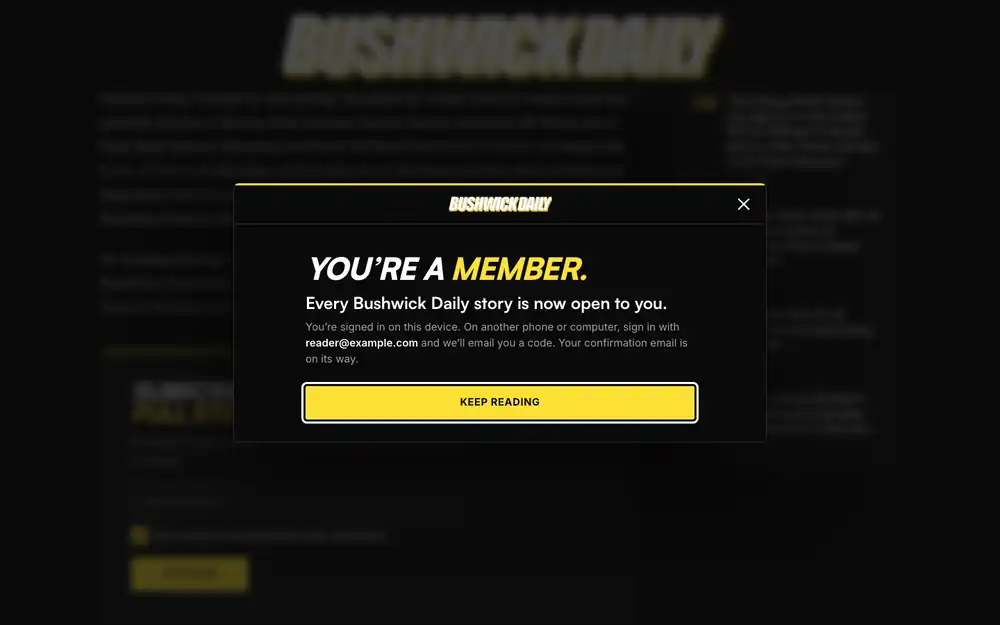
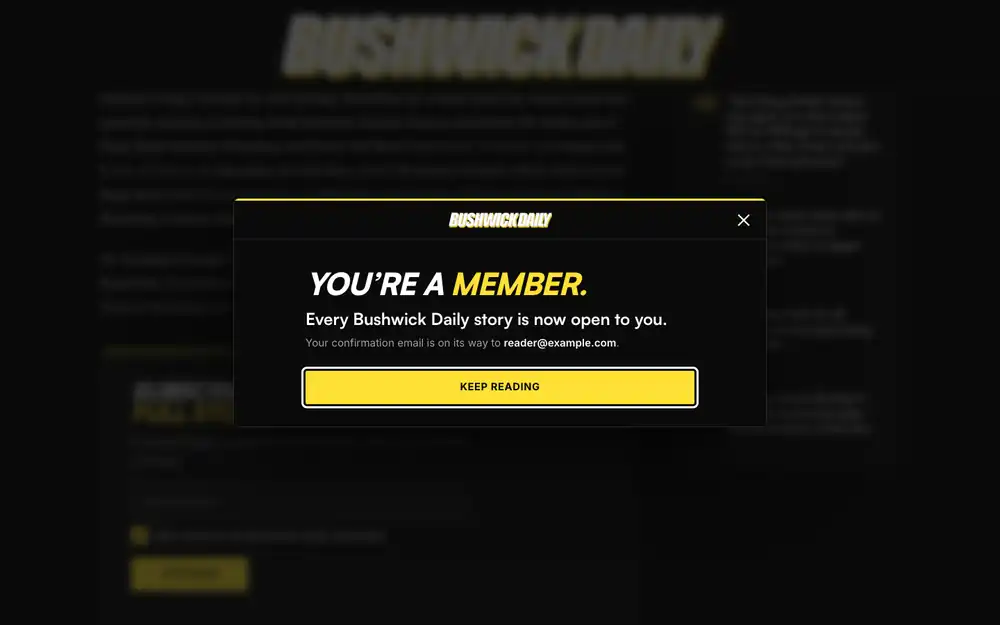
Success screen auto-closes again

Changed region(s): [[0.279, 0.3952, 0.713, 0.6992], [0.248, 0.2736, 0.775, 0.3648]]

diff --git a/design/competitor-comparison.html b/design/competitor-comparison.html
@@ -2,4 +2,4 @@
 <style>:root{--bg:#0a0a0a;--fg:#ededed;--muted:#a3a3a3;--y:#ffe135;--line:#2a2a2a}body{margin:0;background:var(--bg);color:var(--fg);font:16px/1.55 Inter,-apple-system,Helvetica,Arial,sans-serif}main{max-width:1240px;margin:0 auto;padding:24px 16px 64px}h1{font-size:28px;margin:0 0 6px}.lede{color:var(--muted);margin:0 0 28px}.stage{border-top:1px solid var(--line);padding:22px 0}h2{font-size:20px;margin:0 0 14px;color:var(--y)}h3{font-size:13px;letter-spacing:.06em;text-transform:uppercase;color:var(--muted);margin:0 0 10px}.cols{display:grid;grid-template-columns:1fr 1fr 1.1fr;gap:20px}.col figure{margin:0 0 14px}.col img{width:100%;max-width:300px;border:1px solid var(--line);border-radius:6px;display:block}figcaption,.note{font-size:14px;color:var(--muted);margin:6px 0 0;max-width:300px}.bd p{background:#151515;border-left:3px solid var(--y);padding:12px 14px;margin:0;border-radius:4px}.bd b,figcaption b,.note b{color:var(--fg)}a{color:var(--y)}@media(max-width:860px){.cols{grid-template-columns:1fr}.col img{max-width:260px}}</style></head>
 <body><main><h1>Becoming a member: Hell Gate, 404 Media, and what Bushwick Daily will do</h1>
 <p class=lede>Phone screenshots, 2026-10-13. Hell Gate signed in as a free member (owner’s account); 404 Media with an email that has no account; anonymous captures for everything else. Each caption quotes the screen. Full evidence: research reports 27 and 28 in the repo. The Bushwick Daily column shows the approved design mockups (iPhone 13). They are being built into the site now, for review on a private preview link.</p>
-<section class=stage><h2>1. The gate in the article</h2><div class=cols><div class=col><h3>Hell Gate</h3><figure><a href="img/compare/hg-1-gate.webp"><img loading="lazy" src="img/compare/hg-1-gate.webp" alt=""></a><figcaption>“SUBSCRIBE TO READ THE FULL STORY. Become a paid subscriber to Hell Gate to access all of our posts.” [Subscribe]</figcaption></figure><figure><a href="img/compare/hg-1-gate-outpost.webp"><img loading="lazy" src="img/compare/hg-1-gate-outpost.webp" alt=""></a><figcaption>A separate slide-up covers 71% of the phone screen at the gate, hiding the gate’s own button.</figcaption></figure></div><div class=col><h3>404 Media</h3><figure><a href="img/compare/404-1-gate.webp"><img loading="lazy" src="img/compare/404-1-gate.webp" alt=""></a><figcaption>“This post is for paid members only. Become a paid member for unlimited ad-free access…” [SUBSCRIBE] · “Already have an account? Sign in”. A fixed ad covers the bottom 17%.</figcaption></figure></div><div class='col bd'><h3>Bushwick Daily (proposed)</h3><figure><a href="img/compare/bd-1-gate.webp"><img loading="lazy" src="img/compare/bd-1-gate.webp" alt=""></a><figcaption>On landing: the free opening, then one card: email, newsletter box, Continue. Nothing covers the article.</figcaption></figure><p><b>Keep:</b> the article’s free opening, then one clear box. <b>Fix:</b> one gate only (no slide-up competing with it, no ad over it). Our box asks for the email (plus the newsletter box) and Continue.</p></div></div></section><section class=stage><h2>2. The first tap</h2><div class=cols><div class=col><h3>Hell Gate</h3><figure><a href="img/compare/hg-2-signin-newtab.webp"><img loading="lazy" src="img/compare/hg-2-signin-newtab.webp" alt=""></a><figcaption>Subscribe opens a <b>new tab</b> on a full-screen “Sign in” sheet. Plans need another tap (“Sign up”).</figcaption></figure></div><div class=col><h3>404 Media</h3><figure><a href="img/compare/404-2-membership-page.webp"><img loading="lazy" src="img/compare/404-2-membership-page.webp" alt=""></a><figcaption>SUBSCRIBE <b>leaves the article</b> for a /membership/ page.</figcaption></figure><figure><a href="img/compare/404-2-signin-sheet.webp"><img loading="lazy" src="img/compare/404-2-signin-sheet.webp" alt=""></a><figcaption>“Sign in” opens a full-screen sheet over the article.</figcaption></figure></div><div class='col bd'><h3>Bushwick Daily (proposed)</h3><figure><a href="img/compare/bd-2-code-sheet.webp"><img loading="lazy" src="img/compare/bd-2-code-sheet.webp" alt=""></a><figcaption>After Continue, a member gets the code step, full screen, same tab.</figcaption></figure><figure><a href="img/compare/bd-2-plans-sheet.webp"><img loading="lazy" src="img/compare/bd-2-plans-sheet.webp" alt=""></a><figcaption>Everyone else goes straight to the plans, with Monthly selected.</figcaption></figure><p><b>Keep:</b> a full-screen sheet on the phone. <b>Fix:</b> same tab, same article; the sheet opens directly on the right step (code for members, plans for everyone else).</p></div></div></section><section class=stage><h2>3. Telling a signed-in reader where they stand</h2><div class=cols><div class=col><h3>Hell Gate</h3><figure><a href="img/compare/hg-3-account-free.webp"><img loading="lazy" src="img/compare/hg-3-account-free.webp" alt=""></a><figcaption>“You currently have a free membership, upgrade to a paid subscription for full access.” [View plans]. The owner read “free membership” as “I get some free articles.”</figcaption></figure></div><div class=col><h3>404 Media</h3><figure><a href="img/compare/404-3-check-email-no-account.webp"><img loading="lazy" src="img/compare/404-3-check-email-no-account.webp" alt=""></a><figcaption>For an email with no account: “Now check your email! If you have an account, an email has been sent…”, and no email ever comes.</figcaption></figure></div><div class='col bd'><h3>Bushwick Daily (proposed)</h3><figure><a href="img/compare/bd-3-signed-in-card.webp"><img loading="lazy" src="img/compare/bd-3-signed-in-card.webp" alt=""></a><figcaption>Signed in, no membership: the card says so plainly, with See plans.</figcaption></figure><figure><a href="img/compare/bd-3-signed-in-sheet.webp"><img loading="lazy" src="img/compare/bd-3-signed-in-sheet.webp" alt=""></a><figcaption>See plans opens the sheet with the same message.</figcaption></figure><p><b>Fix both:</b> the sheet says <b>“You’re out of free articles.”</b> “You’re signed in as {email}. A membership unlocks this story and every other one: $6.99 a month or $70 a year.” A new email goes straight to the plans; we never say “check your email” when nothing is coming.</p></div></div></section><section class=stage><h2>4. Choosing a plan</h2><div class=cols><div class=col><h3>Hell Gate</h3><figure><a href="img/compare/hg-4-plans.webp"><img loading="lazy" src="img/compare/hg-4-plans.webp" alt=""></a><figcaption>Full screen: Monthly / “Yearly (save 17%)” switch, three tier cards with benefit lists, one [Choose] each.</figcaption></figure></div><div class=col><h3>404 Media</h3><figure><a href="img/compare/404-4-plans-sheet.webp"><img loading="lazy" src="img/compare/404-4-plans-sheet.webp" alt=""></a><figcaption>Full-screen sheet (from Sign in → Sign up): Name, Email, Monthly / Yearly switch, Free / Supporter / Superfan cards.</figcaption></figure></div><div class='col bd'><h3>Bushwick Daily (proposed)</h3><figure><a href="img/compare/bd-4-plans-yearly.webp"><img loading="lazy" src="img/compare/bd-4-plans-yearly.webp" alt=""></a><figcaption>Shown after the reader taps Yearly (the sheet always opens on Monthly). The chosen option has a yellow outline, so Continue, pinned at the bottom, is the only yellow button. “Save $13.88”, what it includes.</figcaption></figure><p><b>Keep:</b> full screen, the Monthly/Yearly switch, a short list of what you get, one button. <b>Fix:</b> one plan (no tier maze), savings as money (“Yearly saves $13.88”), the price matches the headline. Monthly comes selected (both sites preselect Yearly), and the selected option never looks like the button.</p></div></div></section><section class=stage><h2>5. Paying</h2><div class=cols><div class=col><h3>Hell Gate</h3><figure><a href="img/compare/hg-5-stripe-checkout.webp"><img loading="lazy" src="img/compare/hg-5-stripe-checkout.webp" alt=""></a><figcaption>“Choose” <b>leaves Hell Gate</b> for Stripe’s hosted checkout: Apple Pay, email, card form, Subscribe.</figcaption></figure></div><div class=col><h3>404 Media</h3><p class=note>“SUBSCRIBE NOW” goes straight to Stripe’s hosted checkout with no email step. Stripe’s saved-card feature pre-filled a saved card, so one tap would have charged. (Screenshot withheld: it shows a payment card.)</p></div><div class='col bd'><h3>Bushwick Daily (proposed)</h3><figure><a href="img/compare/bd-5-payment.webp"><img loading="lazy" src="img/compare/bd-5-payment.webp" alt=""></a><figcaption>Payment inside the sheet: the price and the reader’s address at the top, then the consent box with the required disclosure, all of it on the first iPhone 13 screen. Apple Pay is 76 px of scrolling below it (it was 171), or the card form.</figcaption></figure><figure><a href="img/compare/bd-5-success.webp"><img loading="lazy" src="img/compare/bd-5-success.webp" alt=""></a><figcaption>“You’re a member. Every Bushwick Daily story is now open to you.” One payment covers the whole site; the reader stays signed in on that device (180 days) and signs in once with an emailed code on any other device. Keep reading closes the sheet; the article unlocks where they were.</figcaption></figure><p><b>Fix:</b> the reader never leaves the article. Payment happens inside the sheet, in this order: price and address, the consent box with the legal disclosure, the black Apple Pay button, “Pay with card”, Subscribe. On success the sheet closes and the story unlocks where they were. One payment opens every story on the site, not just this one.</p></div></div></section><section class=stage><h2>6. Getting out</h2><div class=cols><div class=col><h3>Hell Gate</h3><p class=note>Phone: only the X closes it. Escape does nothing on the phone, and the phone’s Back button never closes the sheet (it does nothing in the new tab, or leaves the article). Desktop: Escape works.</p></div><div class=col><h3>404 Media</h3><p class=note>Same as Hell Gate (same Ghost Portal 2.72.3). Back from the Sign in sheet <b>left the article</b>.</p></div><div class='col bd'><h3>Bushwick Daily (proposed)</h3><p><b>Fix:</b> X, Escape (phone and desktop) and the phone’s Back button all close the sheet and return to the same spot in the article. The page behind can’t scroll while the sheet is open (both sites do this; we keep it).</p></div></div></section></main></body></html>
+<section class=stage><h2>1. The gate in the article</h2><div class=cols><div class=col><h3>Hell Gate</h3><figure><a href="img/compare/hg-1-gate.webp"><img loading="lazy" src="img/compare/hg-1-gate.webp" alt=""></a><figcaption>“SUBSCRIBE TO READ THE FULL STORY. Become a paid subscriber to Hell Gate to access all of our posts.” [Subscribe]</figcaption></figure><figure><a href="img/compare/hg-1-gate-outpost.webp"><img loading="lazy" src="img/compare/hg-1-gate-outpost.webp" alt=""></a><figcaption>A separate slide-up covers 71% of the phone screen at the gate, hiding the gate’s own button.</figcaption></figure></div><div class=col><h3>404 Media</h3><figure><a href="img/compare/404-1-gate.webp"><img loading="lazy" src="img/compare/404-1-gate.webp" alt=""></a><figcaption>“This post is for paid members only. Become a paid member for unlimited ad-free access…” [SUBSCRIBE] · “Already have an account? Sign in”. A fixed ad covers the bottom 17%.</figcaption></figure></div><div class='col bd'><h3>Bushwick Daily (proposed)</h3><figure><a href="img/compare/bd-1-gate.webp"><img loading="lazy" src="img/compare/bd-1-gate.webp" alt=""></a><figcaption>On landing: the free opening, then one card: email, newsletter box, Continue. Nothing covers the article.</figcaption></figure><p><b>Keep:</b> the article’s free opening, then one clear box. <b>Fix:</b> one gate only (no slide-up competing with it, no ad over it). Our box asks for the email (plus the newsletter box) and Continue.</p></div></div></section><section class=stage><h2>2. The first tap</h2><div class=cols><div class=col><h3>Hell Gate</h3><figure><a href="img/compare/hg-2-signin-newtab.webp"><img loading="lazy" src="img/compare/hg-2-signin-newtab.webp" alt=""></a><figcaption>Subscribe opens a <b>new tab</b> on a full-screen “Sign in” sheet. Plans need another tap (“Sign up”).</figcaption></figure></div><div class=col><h3>404 Media</h3><figure><a href="img/compare/404-2-membership-page.webp"><img loading="lazy" src="img/compare/404-2-membership-page.webp" alt=""></a><figcaption>SUBSCRIBE <b>leaves the article</b> for a /membership/ page.</figcaption></figure><figure><a href="img/compare/404-2-signin-sheet.webp"><img loading="lazy" src="img/compare/404-2-signin-sheet.webp" alt=""></a><figcaption>“Sign in” opens a full-screen sheet over the article.</figcaption></figure></div><div class='col bd'><h3>Bushwick Daily (proposed)</h3><figure><a href="img/compare/bd-2-code-sheet.webp"><img loading="lazy" src="img/compare/bd-2-code-sheet.webp" alt=""></a><figcaption>After Continue, a member gets the code step, full screen, same tab.</figcaption></figure><figure><a href="img/compare/bd-2-plans-sheet.webp"><img loading="lazy" src="img/compare/bd-2-plans-sheet.webp" alt=""></a><figcaption>Everyone else goes straight to the plans, with Monthly selected.</figcaption></figure><p><b>Keep:</b> a full-screen sheet on the phone. <b>Fix:</b> same tab, same article; the sheet opens directly on the right step (code for members, plans for everyone else).</p></div></div></section><section class=stage><h2>3. Telling a signed-in reader where they stand</h2><div class=cols><div class=col><h3>Hell Gate</h3><figure><a href="img/compare/hg-3-account-free.webp"><img loading="lazy" src="img/compare/hg-3-account-free.webp" alt=""></a><figcaption>“You currently have a free membership, upgrade to a paid subscription for full access.” [View plans]. The owner read “free membership” as “I get some free articles.”</figcaption></figure></div><div class=col><h3>404 Media</h3><figure><a href="img/compare/404-3-check-email-no-account.webp"><img loading="lazy" src="img/compare/404-3-check-email-no-account.webp" alt=""></a><figcaption>For an email with no account: “Now check your email! If you have an account, an email has been sent…”, and no email ever comes.</figcaption></figure></div><div class='col bd'><h3>Bushwick Daily (proposed)</h3><figure><a href="img/compare/bd-3-signed-in-card.webp"><img loading="lazy" src="img/compare/bd-3-signed-in-card.webp" alt=""></a><figcaption>Signed in, no membership: the card says so plainly, with See plans.</figcaption></figure><figure><a href="img/compare/bd-3-signed-in-sheet.webp"><img loading="lazy" src="img/compare/bd-3-signed-in-sheet.webp" alt=""></a><figcaption>See plans opens the sheet with the same message.</figcaption></figure><p><b>Fix both:</b> the sheet says <b>“You’re out of free articles.”</b> “You’re signed in as {email}. A membership unlocks this story and every other one: $6.99 a month or $70 a year.” A new email goes straight to the plans; we never say “check your email” when nothing is coming.</p></div></div></section><section class=stage><h2>4. Choosing a plan</h2><div class=cols><div class=col><h3>Hell Gate</h3><figure><a href="img/compare/hg-4-plans.webp"><img loading="lazy" src="img/compare/hg-4-plans.webp" alt=""></a><figcaption>Full screen: Monthly / “Yearly (save 17%)” switch, three tier cards with benefit lists, one [Choose] each.</figcaption></figure></div><div class=col><h3>404 Media</h3><figure><a href="img/compare/404-4-plans-sheet.webp"><img loading="lazy" src="img/compare/404-4-plans-sheet.webp" alt=""></a><figcaption>Full-screen sheet (from Sign in → Sign up): Name, Email, Monthly / Yearly switch, Free / Supporter / Superfan cards.</figcaption></figure></div><div class='col bd'><h3>Bushwick Daily (proposed)</h3><figure><a href="img/compare/bd-4-plans-yearly.webp"><img loading="lazy" src="img/compare/bd-4-plans-yearly.webp" alt=""></a><figcaption>Shown after the reader taps Yearly (the sheet always opens on Monthly). The chosen option has a yellow outline, so Continue, pinned at the bottom, is the only yellow button. “Save $13.88”, what it includes.</figcaption></figure><p><b>Keep:</b> full screen, the Monthly/Yearly switch, a short list of what you get, one button. <b>Fix:</b> one plan (no tier maze), savings as money (“Yearly saves $13.88”), the price matches the headline. Monthly comes selected (both sites preselect Yearly), and the selected option never looks like the button.</p></div></div></section><section class=stage><h2>5. Paying</h2><div class=cols><div class=col><h3>Hell Gate</h3><figure><a href="img/compare/hg-5-stripe-checkout.webp"><img loading="lazy" src="img/compare/hg-5-stripe-checkout.webp" alt=""></a><figcaption>“Choose” <b>leaves Hell Gate</b> for Stripe’s hosted checkout: Apple Pay, email, card form, Subscribe.</figcaption></figure></div><div class=col><h3>404 Media</h3><p class=note>“SUBSCRIBE NOW” goes straight to Stripe’s hosted checkout with no email step. Stripe’s saved-card feature pre-filled a saved card, so one tap would have charged. (Screenshot withheld: it shows a payment card.)</p></div><div class='col bd'><h3>Bushwick Daily (proposed)</h3><figure><a href="img/compare/bd-5-payment.webp"><img loading="lazy" src="img/compare/bd-5-payment.webp" alt=""></a><figcaption>Payment inside the sheet: the price and the reader’s address at the top, then the consent box with the required disclosure, all of it on the first iPhone 13 screen. Apple Pay is 76 px of scrolling below it (it was 171), or the card form.</figcaption></figure><figure><a href="img/compare/bd-5-success.webp"><img loading="lazy" src="img/compare/bd-5-success.webp" alt=""></a><figcaption>“You’re a member. Every Bushwick Daily story is now open to you.” The sheet closes by itself after 2 seconds (or on Keep reading) and the article unlocks where they were. One payment covers the whole site; the reader stays signed in on that device for 180 days.</figcaption></figure><p><b>Fix:</b> the reader never leaves the article. Payment happens inside the sheet, in this order: price and address, the consent box with the legal disclosure, the black Apple Pay button, “Pay with card”, Subscribe. On success the sheet closes and the story unlocks where they were. One payment opens every story on the site, not just this one.</p></div></div></section><section class=stage><h2>6. Getting out</h2><div class=cols><div class=col><h3>Hell Gate</h3><p class=note>Phone: only the X closes it. Escape does nothing on the phone, and the phone’s Back button never closes the sheet (it does nothing in the new tab, or leaves the article). Desktop: Escape works.</p></div><div class=col><h3>404 Media</h3><p class=note>Same as Hell Gate (same Ghost Portal 2.72.3). Back from the Sign in sheet <b>left the article</b>.</p></div><div class='col bd'><h3>Bushwick Daily (proposed)</h3><p><b>Fix:</b> X, Escape (phone and desktop) and the phone’s Back button all close the sheet and return to the same spot in the article. The page behind can’t scroll while the sheet is open (both sites do this; we keep it).</p></div></div></section></main></body></html>

diff --git a/design/flow.html b/design/flow.html
@@ -97,8 +97,8 @@ th,td{border:1px solid var(--line);padding:6px 8px;text-align:left;vertical-alig
 <figure class=phone><a href="img/sheet-success-proposed-iphone13.webp"><img loading=lazy src="img/sheet-success-proposed-iphone13.webp" alt="Success, iPhone 13, 390×664"></a><figcaption>iPhone 13, 390×664</figcaption></figure>
 <figure class=desk><a href="img/sheet-success-proposed-desktop.webp"><img loading=lazy src="img/sheet-success-proposed-desktop.webp" alt="Success, Desktop, 1440×900"></a><figcaption>Desktop, 1440×900</figcaption></figure>
 <div class=text><h3><span class=id>A7</span>Success</h3>
-<h4>On screen (verbatim)</h4><div class=copy><p>You’re a member.</p><p>Every Bushwick Daily story is now open to you.</p><p>You’re signed in on this device. On another phone or computer, sign in with reader@example.com and we’ll email you a code. Your confirmation email is on its way.</p><p>Keep reading</p></div>
-<h4>What the reader can do → where it leads</h4><ul><li><b>“Keep reading”</b> → <a href="#A8">A8 The story, unlocked in place</a></li></ul>
+<h4>On screen (verbatim)</h4><div class=copy><p>You’re a member.</p><p>Every Bushwick Daily story is now open to you.</p><p>Your confirmation email is on its way to reader@example.com.</p><p>Keep reading</p></div>
+<h4>What the reader can do → where it leads</h4><ul><li><b>“Keep reading”</b> → <a href="#A8">A8 The story, unlocked in place</a></li><li><b>Do nothing for 2 seconds</b> → the sheet closes by itself: <a href="#A8">A8 The story, unlocked in place</a></li></ul>
 <h4>How to leave</h4><p class=leave>X, Escape or Back do what “Keep reading” does: <a href="#A8">A8 The story, unlocked in place</a> (v2.1; in v2 an X here left the story locked).</p>
 </div></div>
 <div class="step" id="A8">
@@ -258,7 +258,7 @@ th,td{border:1px solid var(--line);padding:6px 8px;text-align:left;vertical-alig
 </div></div>
 <div class="step noimg" id="E4">
 <div class=text><h3><span class=id>E4</span>Closing the success screen</h3>
-<h4>What the reader can do → where it leads</h4><ul><li><b>X, Escape, Back or “Keep reading”</b> → <a href="#A8">A8 The story, unlocked in place</a>: the story unlocked, focus in the story, the page where it was (v2.1; checked by verify_sheet.py)</li></ul>
+<h4>What the reader can do → where it leads</h4><ul><li><b>X, Escape, Back, “Keep reading”, or 2 seconds</b> → <a href="#A8">A8 The story, unlocked in place</a>: the story unlocked, focus in the story, the page where it was (v2.1; checked by verify_sheet.py)</li></ul>
 </div></div>
 <div class="step noimg" id="E5">
 <div class=text><h3><span class=id>E5</span>“Use a different email” (code step)</h3>

diff --git a/design/mockups/sheet.js b/design/mockups/sheet.js
@@ -410,10 +410,11 @@
 
   function success(autoClose) {
     sheet.show('success');
-    // v2.2 (owner, 2026-10-13: "this isn't a rate per article this is access to the site"): no auto-close. The success
-    // screen says the whole site is open and how sign-in works on other devices; the reader closes it ("Keep reading",
-    // X, Escape or Back all unlock the story in place).
-    void autoClose;
+    if (!autoClose) return;
+    // V2-1, kept by the owner (2026-10-13: "auto closing the message makes sense"): the success screen stays up for 2 s,
+    // then the sheet closes by itself; "Keep reading", X, Escape or Back close it sooner. Every exit unlocks in place.
+    window.clearTimeout(doneTimer);
+    doneTimer = window.setTimeout(function () { finish(); }, 2000);
   }
   function finish() {
     window.clearTimeout(doneTimer);

diff --git a/design/mockups/gate-proposed-no-debt-fix.html b/design/mockups/gate-proposed-no-debt-fix.html
@@ -2355,7 +2355,7 @@ img:is([sizes=auto i],[sizes^="auto," i]){contain-intrinsic-size:3000px 1500px}
 <div role="status">
 <h2 class="bd-sheet__title" data-bd-sheet-heading="" id="bd-sheet-success-title" tabindex="-1">You’re a <em>member.</em></h2>
 <p class="bd-sheet__lede bd-sheet__lede--big">Every Bushwick Daily story is now open to you.</p>
-<p class="bd-sheet__receipt">You’re signed in on this device. On another phone or computer, sign in with <strong data-bd-step-email=""></strong> and we’ll email you a code. Your confirmation email is on its way.</p>
+<p class="bd-sheet__receipt">Your confirmation email is on its way to <strong data-bd-step-email=""></strong>.</p>
 </div>
 <button class="bd-btn bd-btn--primary" data-bd-sheet-done="" data-bd-sheet-focus="" type="button">Keep reading</button>
 </section>

diff --git a/design/mockups/gate-proposed.html b/design/mockups/gate-proposed.html
@@ -2355,7 +2355,7 @@ img:is([sizes=auto i],[sizes^="auto," i]){contain-intrinsic-size:3000px 1500px}
 <div role="status">
 <h2 class="bd-sheet__title" data-bd-sheet-heading="" id="bd-sheet-success-title" tabindex="-1">You’re a <em>member.</em></h2>
 <p class="bd-sheet__lede bd-sheet__lede--big">Every Bushwick Daily story is now open to you.</p>
-<p class="bd-sheet__receipt">You’re signed in on this device. On another phone or computer, sign in with <strong data-bd-step-email=""></strong> and we’ll email you a code. Your confirmation email is on its way.</p>
+<p class="bd-sheet__receipt">Your confirmation email is on its way to <strong data-bd-step-email=""></strong>.</p>
 </div>
 <button class="bd-btn bd-btn--primary" data-bd-sheet-done="" data-bd-sheet-focus="" type="button">Keep reading</button>
 </section>
